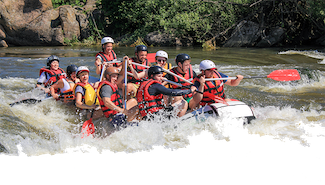
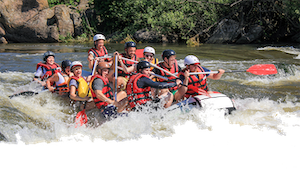
W04

diff --git a/wwr/about.html b/wwr/about.html
@@ -46,7 +46,9 @@
     <footer>
         <figure>
             <img src="images/hero_images.png" alta="Beautiful Half day with adventure">
-            <figcaption></figcaption>
+            <figcaption>Beautiful Half Day With Adventure</figcaption>
+            <img src="images/rafting27.jpg" alta="Family fun day with adrenalin">
+            <figcaption>Family Fun Day With Adrenalin</figcaption>
         </figure>
 
         <nav class="socialmedia">

diff --git a/wwr/styles/rafting.css b/wwr/styles/rafting.css
@@ -17,6 +17,16 @@ header{
     background-color: var(--accent-color);
     color: var(--accent2-color);
 }
+.side-header {
+    display: grid;
+    grid-template-columns: 120px 1fr 1fr;
+    align-items: center;
+}
+.main-nav ul{
+    display: flex;
+    list-style: none;
+
+}
 
 body {
     font-family: var(--body-font);
